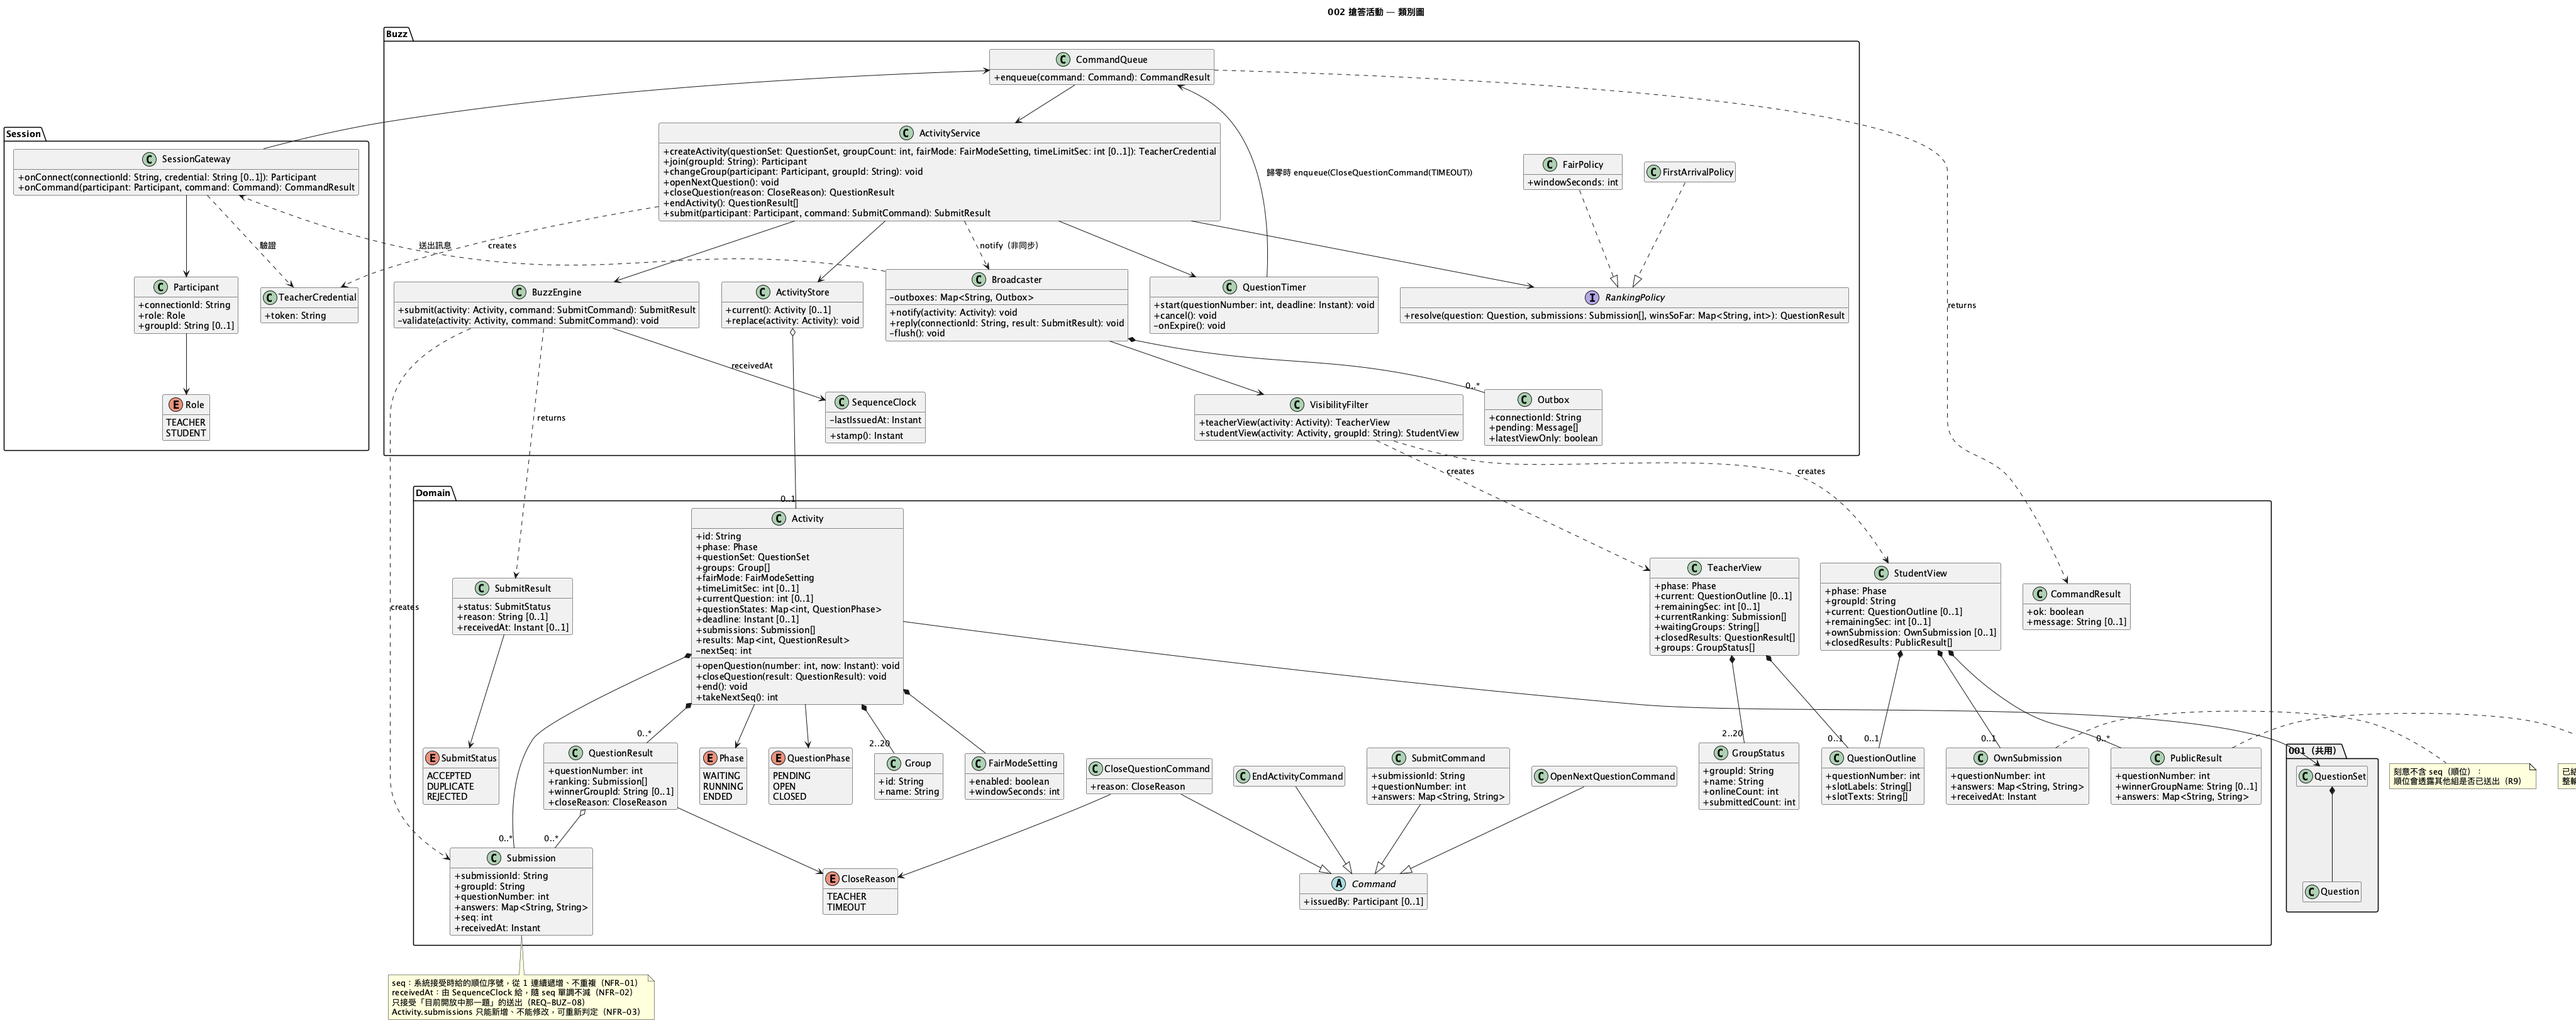
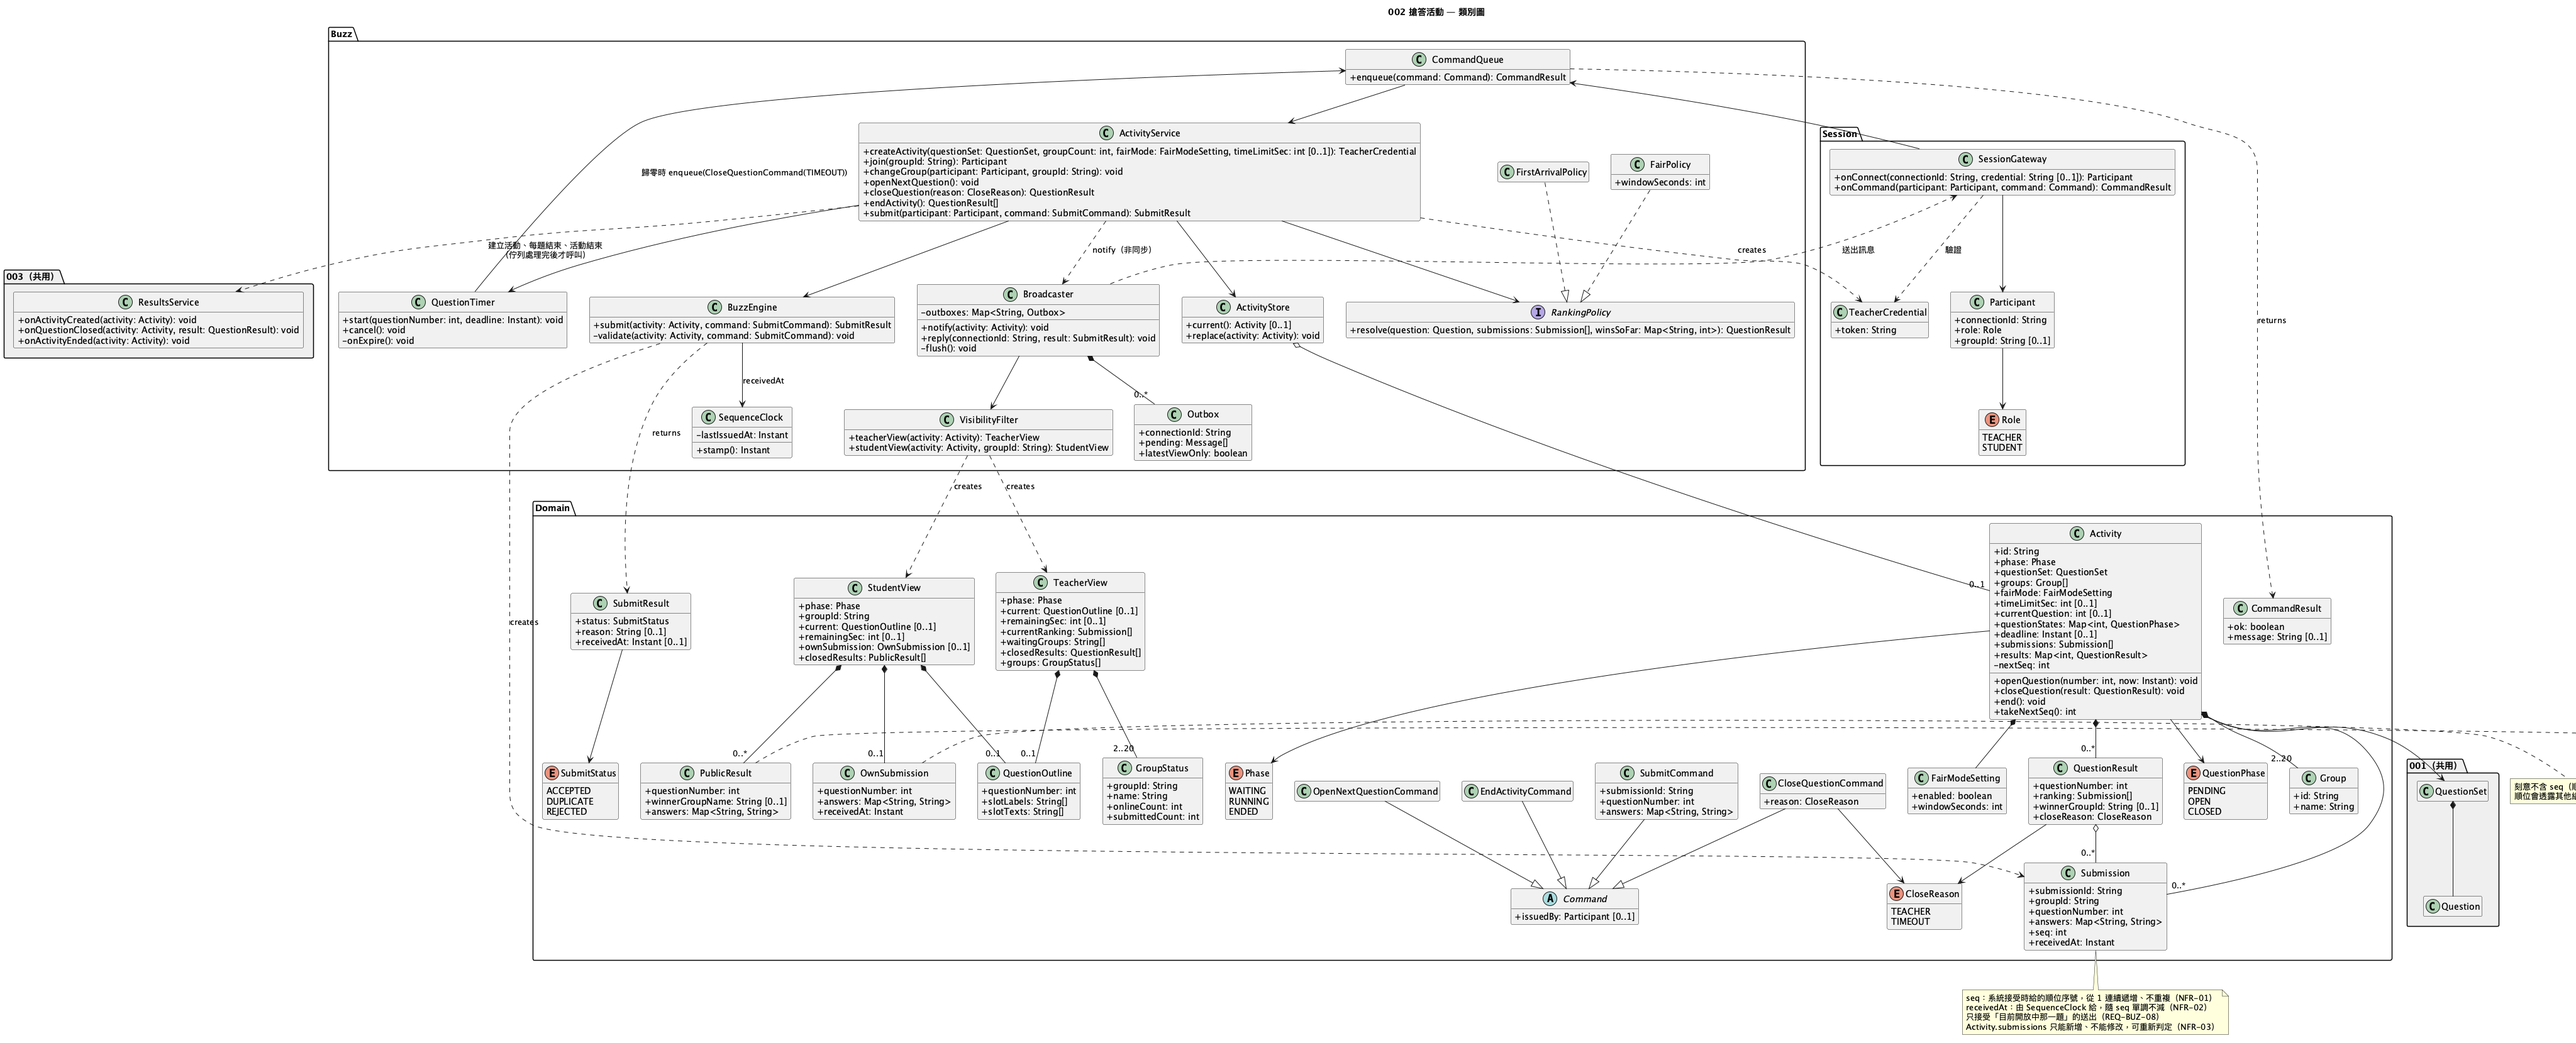
spec(002): 依 analyze 報告補上類別圖依賴與 100 次測試
類別圖缺少 ActivityService 呼叫 003 ResultsService 的依賴，實作後的圖表一致性驗證會對不上；SC-002 要求同時送出的測試跑 100 次，任務只跑 1 次。補上類別圖並重新產生 PNG，T031 改為重複 100 次。報告一併保存，重跑後只剩 LOW。

Refs: SC-002, REQ-BUZ-19

diff --git a/specs/002-buzzer-session/analyze-report.md b/specs/002-buzzer-session/analyze-report.md
@@ -1,0 +1,62 @@
+# Specification Analysis Report: 002 搶答活動
+
+**Date**: 2026-11-18 | **Command**: `/speckit-analyze` | **Artifacts**: spec.md、plan.md、tasks.md、constitution.md
+
+## Findings
+
+| ID | Category | Severity | Location(s) | Summary | Recommendation |
+|----|----------|----------|-------------|---------|----------------|
+| F1 | Inconsistency | ~~MEDIUM~~ 已修正 | diagrams/002-class.puml；002-component.puml:61、002-sequence.puml:72、92；plan.md 藍圖對照 | 組件圖與時序圖都有 `ActivityService` 呼叫 003 `ResultsService` 的三個方法，類別圖沒有這個依賴；實作後的圖表一致性驗證（T059）會對不上 | 在 002-class.puml 的「其他子功能」加入 `ResultsService`（`onActivityCreated`、`onQuestionClosed`、`onActivityEnded`）與 `ActivityService --> ResultsService` 關係，重新產生 PNG |
+| F2 | Inconsistency | ~~MEDIUM~~ 已修正 | spec.md REQ-BUZ-20、Edge Cases；contracts/session-http.md `UNEXPORTED_RESULTS` | 002 寫「舊活動的結果尚未匯出時提醒」，003 改為「寫回 Google Sheets」與「匯出 CSV」兩個動作，任一個完成就不再提醒（003 data-model）；用語不一致 | 改成「尚未寫回 Google Sheets 也尚未匯出 CSV 時提醒」 |
+| E1 | Coverage | ~~MEDIUM~~ 已修正 | spec.md SC-002；tasks.md T031 | SC-002 要求「100 次多組同時送出」的自動化測試，T031 只跑一次 | T031 改為重複 100 次，每次檢查恰好一個成功組別且老師畫面與結果一致 |
+| E2 | Coverage | LOW | spec.md SC-001、SC-008、AC-04 | SC-001（12 個分頁 1 秒內同步）、SC-008（倒數相差 ≤ 1 秒）、AC-04（結束後 1 秒內同步並拒絕送出）由 T014、T016、T031 涵蓋，但沒有明確引用 | 在 T016 加上 SC-001、AC-04 並以 12 個連線驗證；在 T014 加上 SC-008 |
+| F3 | Underspecification | LOW | contracts/session-http.md `GET /api/activity/public` | `activityName` 的來源沒有寫明 | 註明取自 `QuestionSet.source.spreadsheetTitle` |
+| U1 | Traceability | LOW | tasks.md 需求追溯表 | T032（REQ-BUZ-09）、T036（REQ-BUZ-11）、T037（REQ-BUZ-08）沒有出現在追溯表 | 補進追溯表 |
+
+## Coverage Summary
+
+| Requirement Key | Has Task? | Task IDs | Notes |
+|-----------------|-----------|----------|-------|
+| REQ-BUZ-01～22 | ✅ | 見 tasks.md 追溯表 | 22 條全部有任務 |
+| REQ-BUZ-NFR-01 | ✅ | T007、T008、T044、T047 | |
+| REQ-BUZ-NFR-02 | ✅ | T005、T006、T047 | |
+| REQ-BUZ-NFR-03 | ✅ | T030、T044、T053 | |
+| REQ-BUZ-NFR-04 | ✅ | T044、T045、T048 | 壓力測試 |
+| REQ-BUZ-NFR-05 | ✅ | T043、T046 | |
+| SC-002 | ✅ | T031 | 重複 100 次（E1 已修正） |
+| SC-003 | ✅ | T040 | |
+| SC-006、SC-007 | ✅ | T044、T045、T048 | |
+
+**Constitution Alignment Issues**: 無。原則 V（單一權威：CommandQueue、伺服器倒數）、VI（T039–T042 伺服器端隔離）、VIII（每個 Story 都有測試，T058 人工驗證）、I（T059）都有對應任務。
+
+**Unmapped Tasks**: T001–T004、T011（基礎設施）、T057–T059（Polish），不需對應單一需求。
+
+## Metrics
+
+- Total Requirements: 27（22 條功能需求、5 條非功能需求）
+- Total Tasks: 59
+- Coverage: 100%
+- Ambiguity Count: 0
+- Duplication Count: 0
+- Critical Issues Count: 0（HIGH 0、MEDIUM 0、LOW 3）
+
+## 跨子功能交界
+
+| 交界 | 結果 |
+| --- | --- |
+| 呼叫 003 `ResultsService` 的三個方法 | ✅ plan、tasks（T016、T018）與三張圖一致（F1 已修正） |
+| 老師憑證發給 001、003 使用 | ✅ T010 對應 001 T014 |
+| 新活動前的提醒 | ✅ 與 003 一致：尚未寫回也尚未匯出 CSV 時提醒（F2 已修正） |
+
+
+## 重跑結果（2026-11-18，修正後）
+
+- F1：002-class.puml 新增「003（共用）」的 `ResultsService` 與 `ActivityService ..> ResultsService`，PNG 已重新產生；plan 藍圖對照的來源圖補上 class、sequence。
+- F2：spec.md（REQ-BUZ-20、Edge Cases、Assumptions）與 contracts/session-http.md 改為「尚未寫回 Google Sheets 也尚未匯出 CSV」，獨立一個 `spec` commit。
+- E1：T031 改為重複 100 次（SC-002）。
+- 重跑檢查：需求涵蓋 100%；剩下 LOW 3 項（E2、F3、U1），不影響進入實作。
+
+## Next Actions
+
+- 沒有 CRITICAL 或 HIGH，依 CLAUDE.md 第 2 節可以進入 `/speckit-implement`。
+- MEDIUM 已修正並重跑；LOW 項目可在實作對應任務時順手補上。

diff --git a/specs/002-buzzer-session/tasks.md b/specs/002-buzzer-session/tasks.md
@@ -94,7 +94,7 @@ description: "Task list for 002 搶答活動"
 
 - [ ] T029 [P] [US2] `server/tests/unit/buzz/BuzzEngine.test.ts`：接受時 `seq` 遞增、`receivedAt` 不倒退（AC-08）；同題兩組 → 不同序號、恰好一組成功（AC-09）；題組只填部分小題 → `INCOMPLETE_GROUP`（AC-10）；同組第二位成員 → `ALREADY_SUBMITTED`（AC-11）；同一 `submissionId` → `DUPLICATE` 並回傳第一次的結果、不取新序號（AC-12）；題目已結束 → `QUESTION_NOT_OPEN` 且不列入順位（AC-13）；空白答案 → `EMPTY_ANSWER`，超過 200 字 → `ANSWER_TOO_LONG`（AC-14）；指向已結束或未開放的題號 → `QUESTION_NOT_OPEN`（AC-31）
 - [ ] T030 [P] [US2] `server/tests/unit/buzz/FirstArrivalPolicy.test.ts`（負責：A）：成功組別為序號最小者；沒有送出時 `winnerGroupId` 為 `null`；同一份紀錄重算結果相同（AC-28）
-- [ ] T031 [P] [US2] `server/tests/integration/gateway.submit.test.ts`：兩組幾乎同時 `student:submit`，ack 都是 `ACCEPTED`、序號不同；ack 不含順位（AC-17）；結束後才到的送出回 `REJECTED`（AC-13）
+- [ ] T031 [P] [US2] `server/tests/integration/gateway.submit.test.ts`：兩組幾乎同時 `student:submit`，重複 100 次，每次 ack 都是 `ACCEPTED`、序號不同、恰好一個成功組別，且老師 view 的順位與搶答結果一致（SC-002）；ack 不含順位（AC-17）；結束後才到的送出回 `REJECTED`（AC-13）
 - [ ] T032 [P] [US2] `web/src/pages/student/AnswerPage.submit.test.tsx`：送出後顯示「本組已送出第 n 題」與送出時間並鎖定輸入（AC-07）；網路重試沿用同一個 `submissionId`
 
 ### Implementation for User Story 2

diff --git a/specs/002-buzzer-session/plan.md b/specs/002-buzzer-session/plan.md
@@ -66,7 +66,7 @@
 | ActivityStore | `packages/server/src/store/ActivityStore.ts` | component、class |
 | Activity、Group、FairModeSetting、Phase、QuestionPhase、CloseReason、Submission、Command 系列、CommandResult | `packages/server/src/buzz/domain.ts` | class |
 | QuestionResult、SubmitResult、SubmitStatus、QuestionOutline、TeacherView、StudentView、OwnSubmission、PublicResult、GroupStatus | `packages/shared/src/activity.ts` | class；契約見 `contracts/socket-events.md` |
-| 003 ResultsService（題目結束時通知） | `ActivityService` 在建立活動、每題結束、活動結束時呼叫 `ResultsService.onActivityCreated()`／`onQuestionClosed()`／`onActivityEnded()`（003 實作；處理完佇列內的指令後才呼叫，不在臨界區內） | component |
+| 003 ResultsService（題目結束時通知） | `ActivityService` 在建立活動、每題結束、活動結束時呼叫 `ResultsService.onActivityCreated()`／`onQuestionClosed()`／`onActivityEnded()`（003 實作；處理完佇列內的指令後才呼叫，不在臨界區內） | component、class、sequence |
 | 老師憑證、建立活動 API | `packages/server/src/http/sessionRoutes.ts`；契約見 `contracts/session-http.md` | sequence |
 
 ## Project Structure
